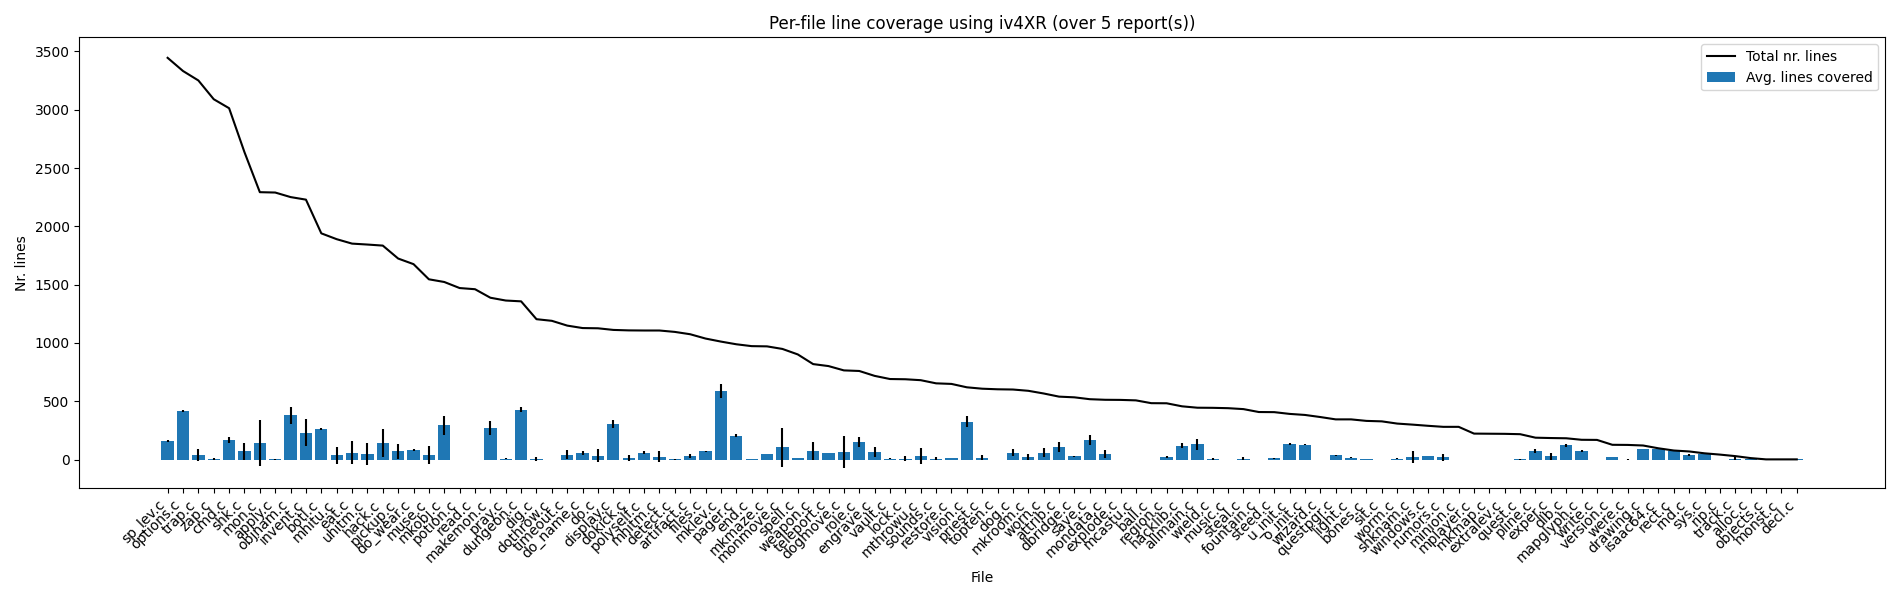
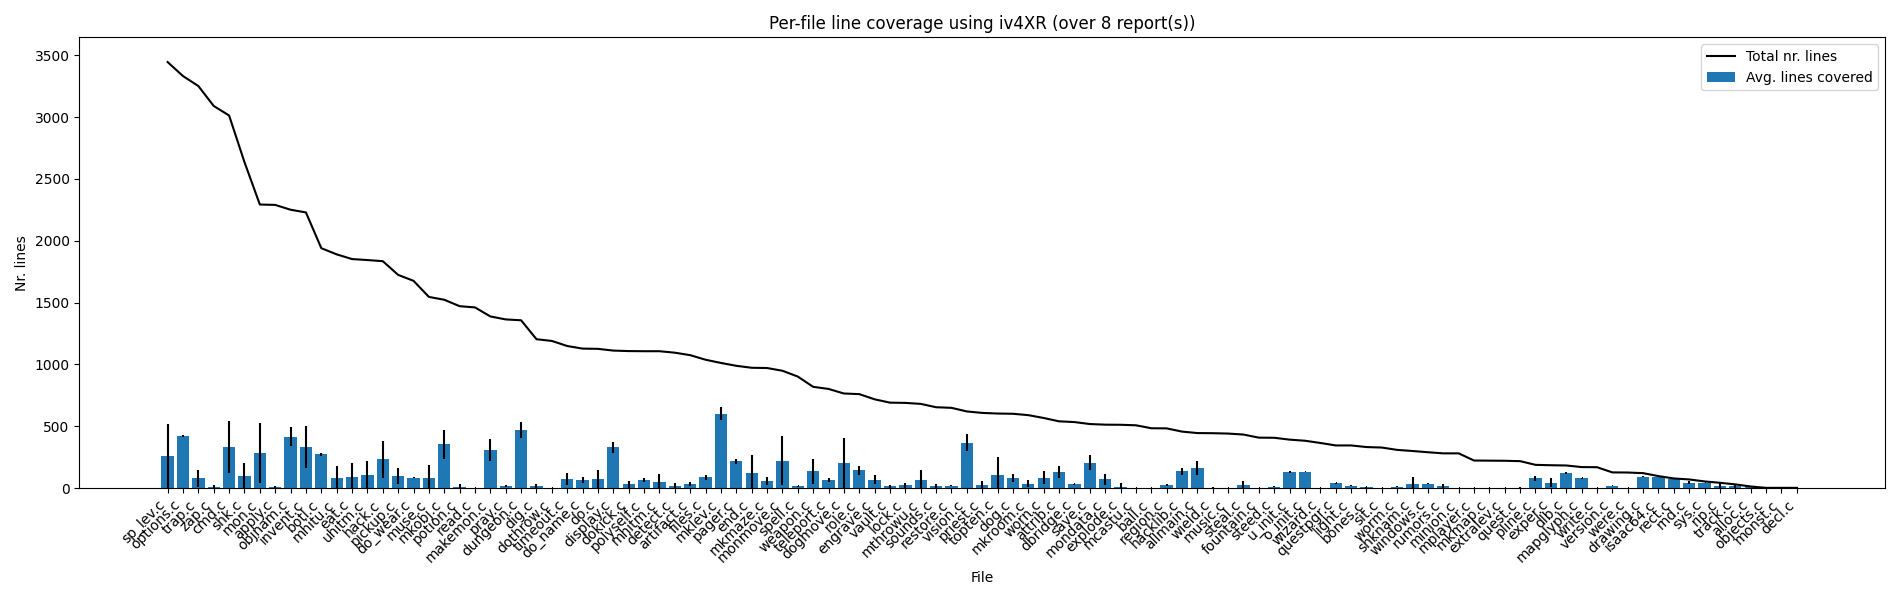
FFT: Force attack instead of move command

diff --git a/util-python/src/coverage.py b/util-python/src/coverage.py
@@ -79,6 +79,7 @@ def create_coverage_plot(coverage_results_paths: [str], method: str, metric: str
         fig, ax = plt.subplots(figsize=(7, 4))
 
     index = np.arange(len(file_names))
+    ax.set_ylim(0, metric_total[0] + 200)
 
     if mat.shape[0] == 1:
         # Plot bar for single result
@@ -87,7 +88,14 @@ def create_coverage_plot(coverage_results_paths: [str], method: str, metric: str
         # Average the coverage results over the number of runs and add error bars
         metric_mean = np.mean(mat, axis=0)
         metric_std = np.std(mat, axis=0)
-        ax.bar(index, metric_mean, yerr=metric_std, label=f'Avg. {get_plural(metric)} covered')
+
+        # Cap the upper standard deviation to the total number of lines, the true value cannot be above that.
+        upper_std = np.min(np.array([metric_mean + metric_std, metric_total]), axis=0) - metric_mean
+        y_error_directional = np.array([metric_std, upper_std])
+
+        # Plot the bar and the error-bars
+        ax.bar(index, metric_mean, label=f'Avg. {get_plural(metric)} covered')
+        ax.errorbar(index, metric_mean, yerr=y_error_directional, fmt=',k')
 
     # Plot the maximum that can be reached
     ax.plot(index, metric_total, label=f'Total nr. {get_plural(metric)}', color='black')
@@ -134,11 +142,13 @@ def get_coverage_file_names(directory_path: str) -> [str]:
 
 
 def main():
-    iv4xr_coverage_names = get_coverage_file_names('../server-python/coverage')
-    create_coverage_plot(iv4xr_coverage_names, 'iv4XR', 'line', True)
+    show_file_names = True
 
     iv4xr_coverage_names = get_coverage_file_names('../server-python/coverage')
-    create_coverage_plot(iv4xr_coverage_names, 'iv4XR', 'branch', True)
+    create_coverage_plot(iv4xr_coverage_names, 'iv4XR', 'line', show_file_names)
+
+    iv4xr_coverage_names = get_coverage_file_names('../server-python/coverage')
+    create_coverage_plot(iv4xr_coverage_names, 'iv4XR', 'branch', show_file_names)
 
     # bothack_coverage_names = get_coverage_file_names('../BotHack/coverage')
     # create_coverage_plot(bothack_coverage_names, 'BotHack', 'line', True)

diff --git a/client-java/src/main/java/agent/strategy/TacticLib.java b/client-java/src/main/java/agent/strategy/TacticLib.java
@@ -4,13 +4,14 @@ import static nl.uu.cs.aplib.AplibEDSL.*;
 
 import agent.iv4xr.AgentState;
 import agent.navigation.strategy.NavUtils;
+import agent.selector.EntitySelector;
 import agent.selector.ItemSelector;
 import eu.iv4xr.framework.mainConcepts.WorldEntity;
+import java.util.ArrayList;
 import java.util.Arrays;
 import java.util.Optional;
 import nethack.object.Player;
 import nl.uu.cs.aplib.mainConcepts.Tactic;
-import util.Loggers;
 
 /**
  * Provide several basic actions and tactics.
@@ -23,19 +24,6 @@ import util.Loggers;
  * @author wish
  */
 public class TacticLib {
-  public static Tactic abortOnDeath() {
-    return ABORT()
-        .on(
-            (AgentState S) -> {
-              boolean agentAlive = S.agentIsAlive();
-              if (agentAlive) {
-                return null;
-              }
-              Loggers.AgentLogger.info(">>> Agent dead, abort");
-              return true;
-            });
-  }
-
   /**
    * This constructs a "default" tactic to interact with an entity. The tactic is enabled if the
    * entity is known in the agent's state/wom, and if it is adjacent to the agent.
@@ -54,6 +42,21 @@ public class TacticLib {
                 return NavUtils.loc2(e.position);
               }
               return null;
+            })
+        .lift();
+  }
+
+  public static Tactic attackAdjacentMonsters() {
+    return Actions.attack()
+        .on(
+            (AgentState S) -> {
+              WorldEntity we =
+                  EntitySelector.adjacentMonster.apply(
+                      new ArrayList<>(S.worldmodel.elements.values()), S);
+              if (we == null) {
+                return null;
+              }
+              return NavUtils.toDirection(S, NavUtils.loc3(we.position));
             })
         .lift();
   }

diff --git a/client-java/src/main/java/agent/strategy/Actions.java b/client-java/src/main/java/agent/strategy/Actions.java
@@ -12,7 +12,6 @@ import agent.navigation.surface.Tile;
 import agent.navigation.surface.Wall;
 import eu.iv4xr.framework.mainConcepts.WorldModel;
 import eu.iv4xr.framework.spatial.IntVec2D;
-import eu.iv4xr.framework.spatial.Vec3;
 import java.util.*;
 import nethack.enums.CommandEnum;
 import nethack.object.Command;
@@ -47,13 +46,8 @@ public class Actions {
             (AgentState S) ->
                 (Direction direction) -> {
                   Sounds.attack();
-                  IntVec2D agentPos = NavUtils.loc2(S.worldmodel.position);
-                  IntVec2D nextPos = NavUtils.posInDirection(agentPos, direction);
-                  Loggers.GoalLogger.info(">>> attackMonster %s", nextPos);
-                  WorldModel newWom =
-                      NavUtils.moveTo(
-                          S,
-                          new Vec3(nextPos.x, nextPos.y, NavUtils.levelNr(S.worldmodel.position)));
+                  Loggers.GoalLogger.info(">>> attackMonster %s", direction);
+                  WorldModel newWom = WorldModels.forceAttack(S, direction);
                   return new Pair<>(S, newWom);
                 });
   }

diff --git a/client-java/src/main/java/agent/strategy/WorldModels.java b/client-java/src/main/java/agent/strategy/WorldModels.java
@@ -13,6 +13,11 @@ public class WorldModels {
     return performCommands(state, new Command(COMMAND_KICK), command);
   }
 
+  static WorldModel forceAttack(AgentState state, Direction direction) {
+    Command command = Direction.getCommand(direction);
+    return performCommands(state, new Command(COMMAND_FIGHT), command);
+  }
+
   static WorldModel eatItem(AgentState state, char itemSlot) {
     Command itemCommand = Command.fromLiteralStroke(String.valueOf(itemSlot));
     return performCommands(state, new Command(COMMAND_EAT), itemCommand, new Command(MISC_MORE));

diff --git a/client-java/src/main/java/agent/strategy/GoalLib.java b/client-java/src/main/java/agent/strategy/GoalLib.java
@@ -25,7 +25,7 @@ public class GoalLib {
             .withTactic(
                 FIRSTof(
                     // Survival
-                    NavTactic.navigateToWorldEntity(EntitySelector.adjacentMonster),
+                    TacticLib.attackAdjacentMonsters(),
                     TacticLib.resolveHungerState(900),
 
                     // Collect money

diff --git a/client-java/src/main/java/nethack/NetHack.java b/client-java/src/main/java/nethack/NetHack.java
@@ -147,7 +147,7 @@ public class NetHack {
   }
 
   private StepType step(Command command, char character) {
-    Loggers.NetHackLogger.info("Command: %s %c", command, character);
+    Loggers.NetHackLogger.info("Command: %s", command);
     StepState stepState = client.sendStepStroke(character);
     updateGameState(stepState);
     return StepType.Valid;
